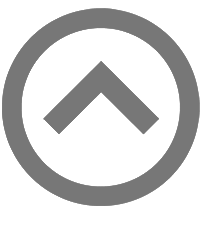
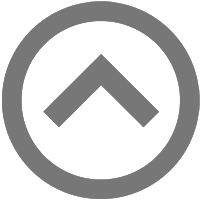
changes

diff --git a/hello/static/css/main.css b/hello/static/css/main.css
@@ -39,6 +39,10 @@ html, body {
 	margin: 3px;
 	height: 25px;
 	width: 25px;
+	-webkit-transition: 0.2s;
+	-moz-transition: 0.2s;
+	-ms-transition: 0.2s;
+	-o-transition: 0.2s;
 }
 #scrollToTop:hover > img {
 	transform: translateY(-29px);
